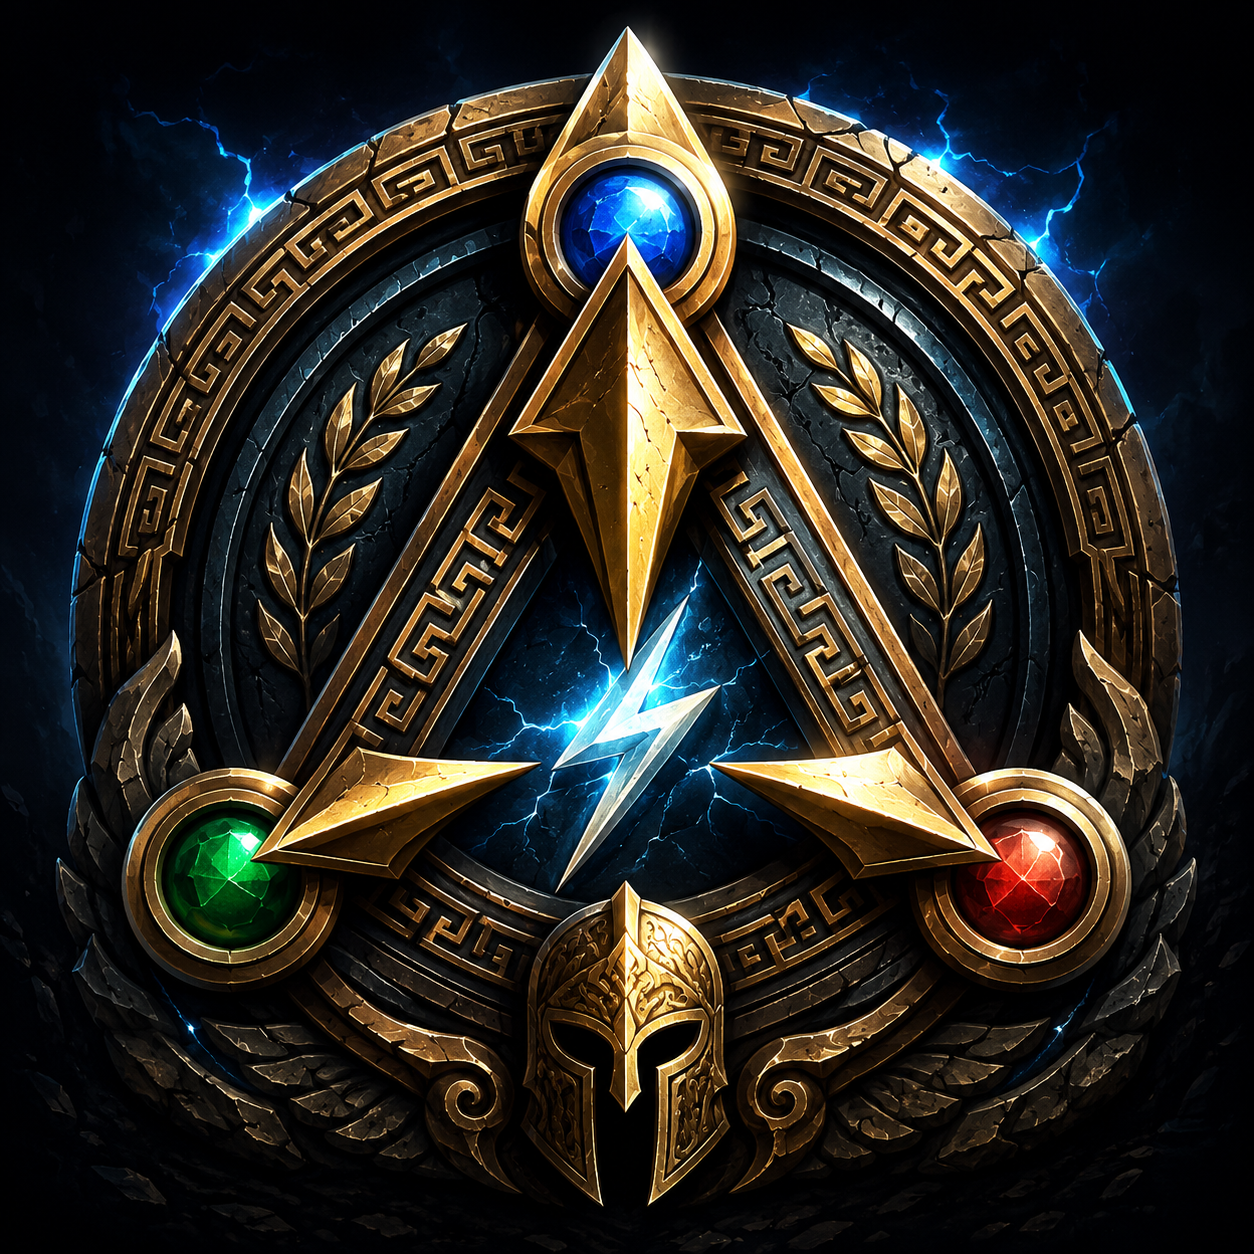
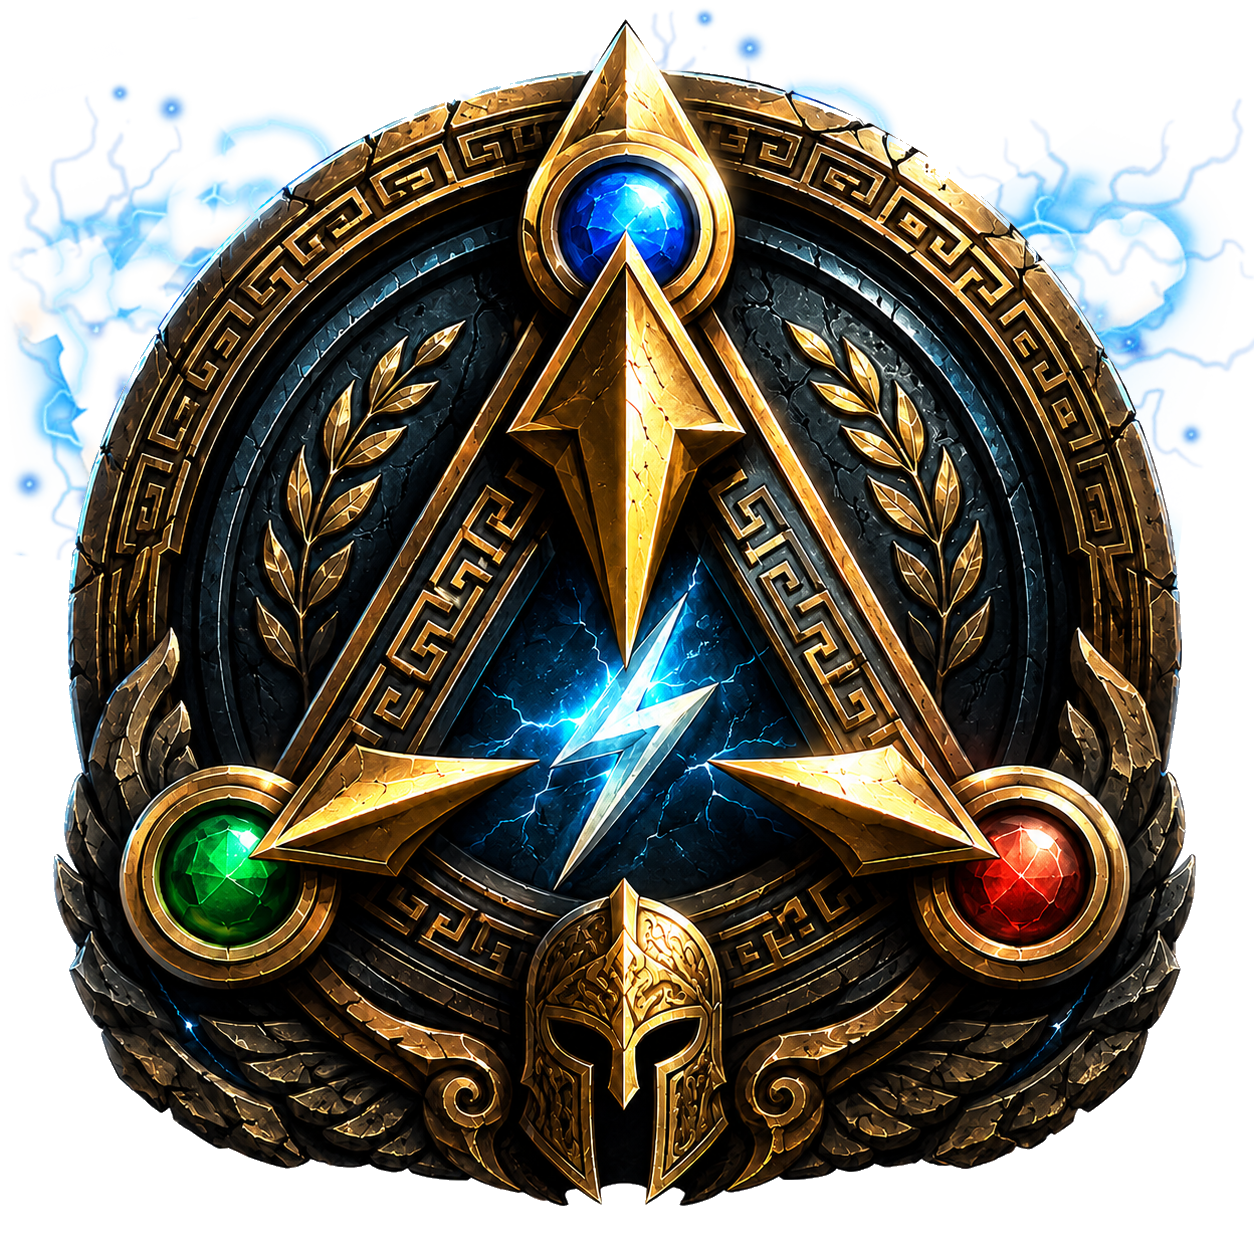
New font for splash page

diff --git a/home.html b/home.html
@@ -61,15 +61,95 @@
         <a class="btn btn-ghost" href="characters.html">Meet the Champions</a>
       </div>
     </div>
-    <div class="hero-band-art reveal" aria-hidden="true">
-      <img class="bust" src="./assets/characters/alkaios-icon.png" alt="" loading="lazy">
-      <img class="bust" src="./assets/characters/kyra-icon.png" alt="" loading="lazy">
-      <img class="bust" src="./assets/characters/skiron-icon.png" alt="" loading="lazy">
-      <img class="bust" src="./assets/characters/thalassa-icon.png" alt="" loading="lazy">
-      <img class="bust" src="./assets/characters/lysander-icon.png" alt="" loading="lazy">
-      <img class="bust" src="./assets/characters/doria-icon.png" alt="" loading="lazy">
-      <img class="bust" src="./assets/characters/iole-icon.png" alt="" loading="lazy">
-      <img class="bust" src="./assets/characters/pyrrhos-icon.png" alt="" loading="lazy">
+    <div class="hero-band-art reveal">
+      <div class="bust-wrap">
+        <button class="bust-trigger" type="button" aria-haspopup="dialog" aria-expanded="false" aria-controls="bust-pop-alkaios" aria-label="Alkaios">
+          <img class="bust" src="./assets/characters/alkaios-icon.png" alt="" loading="lazy">
+        </button>
+        <div class="bust-popover" id="bust-pop-alkaios" role="dialog" aria-label="Alkaios" hidden>
+          <button class="dp-close" type="button" aria-label="Close">
+            <svg class="icon" aria-hidden="true"><use href="./assets/icons/icons.svg#ic-close"></use></svg>
+          </button>
+          Alkaios: Dualist
+        </div>
+      </div>
+      <div class="bust-wrap">
+        <button class="bust-trigger" type="button" aria-haspopup="dialog" aria-expanded="false" aria-controls="bust-pop-kyra" aria-label="Kyra">
+          <img class="bust" src="./assets/characters/kyra-icon.png" alt="" loading="lazy">
+        </button>
+        <div class="bust-popover" id="bust-pop-kyra" role="dialog" aria-label="Kyra" hidden>
+          <button class="dp-close" type="button" aria-label="Close">
+            <svg class="icon" aria-hidden="true"><use href="./assets/icons/icons.svg#ic-close"></use></svg>
+          </button>
+          Kyra: Marksman
+        </div>
+      </div>
+      <div class="bust-wrap">
+        <button class="bust-trigger" type="button" aria-haspopup="dialog" aria-expanded="false" aria-controls="bust-pop-skiron" aria-label="Skiron">
+          <img class="bust" src="./assets/characters/skiron-icon.png" alt="" loading="lazy">
+        </button>
+        <div class="bust-popover" id="bust-pop-skiron" role="dialog" aria-label="Skiron" hidden>
+          <button class="dp-close" type="button" aria-label="Close">
+            <svg class="icon" aria-hidden="true"><use href="./assets/icons/icons.svg#ic-close"></use></svg>
+          </button>
+          Skiron: Trickster
+        </div>
+      </div>
+      <div class="bust-wrap">
+        <button class="bust-trigger" type="button" aria-haspopup="dialog" aria-expanded="false" aria-controls="bust-pop-thalassa" aria-label="Thalassa">
+          <img class="bust" src="./assets/characters/thalassa-icon.png" alt="" loading="lazy">
+        </button>
+        <div class="bust-popover" id="bust-pop-thalassa" role="dialog" aria-label="Thalassa" hidden>
+          <button class="dp-close" type="button" aria-label="Close">
+            <svg class="icon" aria-hidden="true"><use href="./assets/icons/icons.svg#ic-close"></use></svg>
+          </button>
+          Thalassa: Controller
+        </div>
+      </div>
+      <div class="bust-wrap">
+        <button class="bust-trigger" type="button" aria-haspopup="dialog" aria-expanded="false" aria-controls="bust-pop-lysander" aria-label="Lysander">
+          <img class="bust" src="./assets/characters/lysander-icon.png" alt="" loading="lazy">
+        </button>
+        <div class="bust-popover" id="bust-pop-lysander" role="dialog" aria-label="Lysander" hidden>
+          <button class="dp-close" type="button" aria-label="Close">
+            <svg class="icon" aria-hidden="true"><use href="./assets/icons/icons.svg#ic-close"></use></svg>
+          </button>
+          Lysander: Commander
+        </div>
+      </div>
+      <div class="bust-wrap">
+        <button class="bust-trigger" type="button" aria-haspopup="dialog" aria-expanded="false" aria-controls="bust-pop-doria" aria-label="Doria">
+          <img class="bust" src="./assets/characters/doria-icon.png" alt="" loading="lazy">
+        </button>
+        <div class="bust-popover" id="bust-pop-doria" role="dialog" aria-label="Doria" hidden>
+          <button class="dp-close" type="button" aria-label="Close">
+            <svg class="icon" aria-hidden="true"><use href="./assets/icons/icons.svg#ic-close"></use></svg>
+          </button>
+          Doria: Guardian
+        </div>
+      </div>
+      <div class="bust-wrap">
+        <button class="bust-trigger" type="button" aria-haspopup="dialog" aria-expanded="false" aria-controls="bust-pop-iole" aria-label="Iole">
+          <img class="bust" src="./assets/characters/iole-icon.png" alt="" loading="lazy">
+        </button>
+        <div class="bust-popover" id="bust-pop-iole" role="dialog" aria-label="Iole" hidden>
+          <button class="dp-close" type="button" aria-label="Close">
+            <svg class="icon" aria-hidden="true"><use href="./assets/icons/icons.svg#ic-close"></use></svg>
+          </button>
+          Iole: Support
+        </div>
+      </div>
+      <div class="bust-wrap">
+        <button class="bust-trigger" type="button" aria-haspopup="dialog" aria-expanded="false" aria-controls="bust-pop-pyrrhos" aria-label="Pyrrhos">
+          <img class="bust" src="./assets/characters/pyrrhos-icon.png" alt="" loading="lazy">
+        </button>
+        <div class="bust-popover" id="bust-pop-pyrrhos" role="dialog" aria-label="Pyrrhos" hidden>
+          <button class="dp-close" type="button" aria-label="Close">
+            <svg class="icon" aria-hidden="true"><use href="./assets/icons/icons.svg#ic-close"></use></svg>
+          </button>
+          Pyrrhos: Titan Caster
+        </div>
+      </div>
     </div>
   </section>
 
@@ -110,9 +190,7 @@
   <section>
     <div class="wrap">
       <div class="section-head reveal">
-        <p class="eyebrow">How a Match Unfolds</p>
         <h2>Built for Three-Way War</h2>
-        <p>Every mechanic below is drawn directly from the live game.</p>
       </div>
       <div class="feature-grid">
         <div class="feature-card reveal">
@@ -133,7 +211,7 @@
         <div class="feature-card reveal">
           <svg class="icon ficon" aria-hidden="true"><use href="./assets/icons/icons.svg#ic-map-camp"></use></svg>
           <h3>Hand-Crafted Labyrinth</h3>
-          <p>A maze of grass thickets and neutral camps — Creek Nest, Boar Den, Cyclops Hollow and Sphinx Perch — each guarded by a different monster.</p>
+          <p>A maze of grass thickets and neutral camps — Creek Nest, Boar Den, Cyclops Hollow and Sphinx Perch — each guarded by different creatures.</p>
         </div>
         <div class="feature-card reveal">
           <svg class="icon ficon" aria-hidden="true"><use href="./assets/icons/icons.svg#ic-hunterbeast"></use></svg>
@@ -148,12 +226,12 @@
         <div class="feature-card reveal">
           <svg class="icon ficon" aria-hidden="true"><use href="./assets/icons/icons.svg#ic-star"></use></svg>
           <h3>Eight Champions, Five Abilities</h3>
-          <p>Choose from eight original heroes, each with a five-ability kit that unlocks at levels 0, 5, 10, 15 and 20.</p>
+          <p>Choose from eight original heroes, each with a unique five-ability kit.</p>
         </div>
         <div class="feature-card reveal">
           <svg class="icon ficon" aria-hidden="true"><use href="./assets/icons/icons.svg#ic-scroll"></use></svg>
           <h3>Shop &amp; Ascension</h3>
-          <p>Spend gold at the Agora of the Empire for items, and permanent upgrade points at the Temple of Ascension, whenever you're home.</p>
+          <p>Spend gold at the Agora of the Empire for items, and Skill Points at the Temple of Ascension, whenever you're home.</p>
         </div>
         <div class="feature-card reveal">
           <svg class="icon ficon" aria-hidden="true"><use href="./assets/icons/icons.svg#ic-helm"></use></svg>

diff --git a/css/responsive.css b/css/responsive.css
@@ -137,6 +137,55 @@
 }
 .hero-band-art .bust:hover { transform: translateY(-6px); }
 
+.bust-wrap { position: relative; }
+.bust-trigger { display: block; padding: 0; }
+.bust-trigger:hover .bust, .bust-trigger:focus-visible .bust { transform: translateY(-6px); }
+
+/* Character-name popover — same look as the header download popover */
+.bust-popover {
+  position: absolute;
+  top: calc(100% + 10px);
+  left: 50%;
+  transform: translateX(-50%);
+  width: max-content;
+  max-width: 200px;
+  background: var(--bg-panel-2);
+  border: var(--border-bronze);
+  border-radius: var(--radius-md);
+  box-shadow: var(--shadow-lift);
+  padding: var(--space-2) var(--space-3);
+  z-index: 50;
+  color: var(--marble-200);
+  font-family: var(--font-ui);
+  font-size: 0.85rem;
+  text-align: center;
+}
+.bust-popover::before {
+  content: "";
+  position: absolute;
+  top: -7px;
+  left: 50%;
+  width: 12px;
+  height: 12px;
+  background: var(--bg-panel-2);
+  border-left: var(--border-bronze);
+  border-top: var(--border-bronze);
+  transform: translateX(-50%) rotate(45deg);
+}
+.bust-popover[hidden] { display: none; }
+.bust-popover .dp-close {
+  position: absolute;
+  top: 6px;
+  right: 8px;
+  width: 22px;
+  height: 22px;
+  line-height: 20px;
+  text-align: center;
+  color: var(--marble-500);
+  border-radius: 50%;
+}
+.bust-popover .dp-close:hover { color: var(--gold-300); }
+
 /* ------------------------------------------------------------------------
    OVERVIEW / BACKSTORY (home.html)
    ------------------------------------------------------------------------ */

diff --git a/js/site.js b/js/site.js
@@ -59,6 +59,50 @@
     });
   }
 
+  /* ---------------- hero bust name popovers ---------------- */
+  var bustWraps = document.querySelectorAll(".bust-wrap");
+  if (bustWraps.length) {
+    var openBustWrap = null;
+
+    function closeBustPop(returnFocus) {
+      if (!openBustWrap) return;
+      var wrap = openBustWrap;
+      var trigger = wrap.querySelector(".bust-trigger");
+      var pop = wrap.querySelector(".bust-popover");
+      pop.hidden = true;
+      trigger.setAttribute("aria-expanded", "false");
+      openBustWrap = null;
+      if (returnFocus) trigger.focus();
+    }
+
+    bustWraps.forEach(function (wrap) {
+      var trigger = wrap.querySelector(".bust-trigger");
+      var pop = wrap.querySelector(".bust-popover");
+      var closeBtn = pop.querySelector(".dp-close");
+      if (!trigger || !pop) return;
+
+      trigger.addEventListener("click", function (e) {
+        e.stopPropagation();
+        var wasOpen = openBustWrap === wrap;
+        closeBustPop(false);
+        if (!wasOpen) {
+          pop.hidden = false;
+          trigger.setAttribute("aria-expanded", "true");
+          openBustWrap = wrap;
+          if (closeBtn) closeBtn.focus();
+        }
+      });
+      if (closeBtn) closeBtn.addEventListener("click", function () { closeBustPop(true); });
+    });
+
+    document.addEventListener("keydown", function (e) {
+      if (e.key === "Escape" && openBustWrap) closeBustPop(true);
+    });
+    document.addEventListener("click", function (e) {
+      if (openBustWrap && !openBustWrap.contains(e.target)) closeBustPop(false);
+    });
+  }
+
   /* ---------------- ember particles (atmosphere) ---------------- */
   if (!reduceMotion) {
     document.querySelectorAll(".atmosphere[data-embers]").forEach(function (layer) {

diff --git a/css/site.css b/css/site.css
@@ -4,6 +4,13 @@
    near-black stone backgrounds) and the three empire colours (Azure,
    Crimson, Verdant) defined in src/data/heroes.ts (PLAYER_COLORS).
    ========================================================================== */
+@font-face {
+  font-family: "Diogenes";
+  src: url("../assets/fonts/DIOGENES.ttf") format("truetype");
+  font-weight: normal;
+  font-style: normal;
+  font-display: swap;
+}
 
 :root {
   /* ---- surfaces ---- */
@@ -69,7 +76,7 @@
   --gutter: clamp(1.2rem, 4vw, 3rem);
 
   /* ---- type ---- */
-  --font-display: Cambria, "Palatino Linotype", "Book Antiqua", Georgia, "Times New Roman", serif;
+   --font-display: Cambria, "Palatino Linotype", "Book Antiqua", Georgia, "Times New Roman", serif;
   --font-body: Georgia, "Iowan Old Style", "Palatino Linotype", "Book Antiqua", "Times New Roman", serif;
   --font-ui: "Trebuchet MS", "Segoe UI", Verdana, sans-serif;
 
@@ -493,7 +500,7 @@ section + section { border-top: 1px solid rgba(138, 106, 46, 0.14); }
   inset: 0;
   background: radial-gradient(ellipse 60% 40% at 50% 0%, rgba(207, 230, 255, 0.5), transparent 60%);
   opacity: 0;
-  animation: flash 05s ease-in-out infinite;
+  animation: flash 04s ease-in-out infinite;
 }
 @keyframes flash {
   0%, 92%, 100% { opacity: 0; }
@@ -574,12 +581,12 @@ section + section { border-top: 1px solid rgba(138, 106, 46, 0.14); }
 .hero-inner { position: relative; z-index: 2; max-width: 900px; margin: 0 auto; }
 
 .game-title-lockup {
-  font-family: var(--font-display);
+  font-family: "Diogenes", var(--font-display);
   font-weight: 700;
-  letter-spacing: 0.22em;
+  letter-spacing: 0.32em;
   text-transform: uppercase;
   color: var(--gold-400);
-  text-shadow: 0 0 40px var(--gold-glow), 0 3px 0 var(--bronze-700), 0 8px 20px rgba(0, 0, 0, 0.85);
+  text-shadow: 0 0 40px var(--gold-glow), 2px 2px 0 var(--bronze-700), 0 8px 20px rgba(0, 0, 0, 0.85);
   line-height: 1.05;
 }
 .game-title-lockup .of {